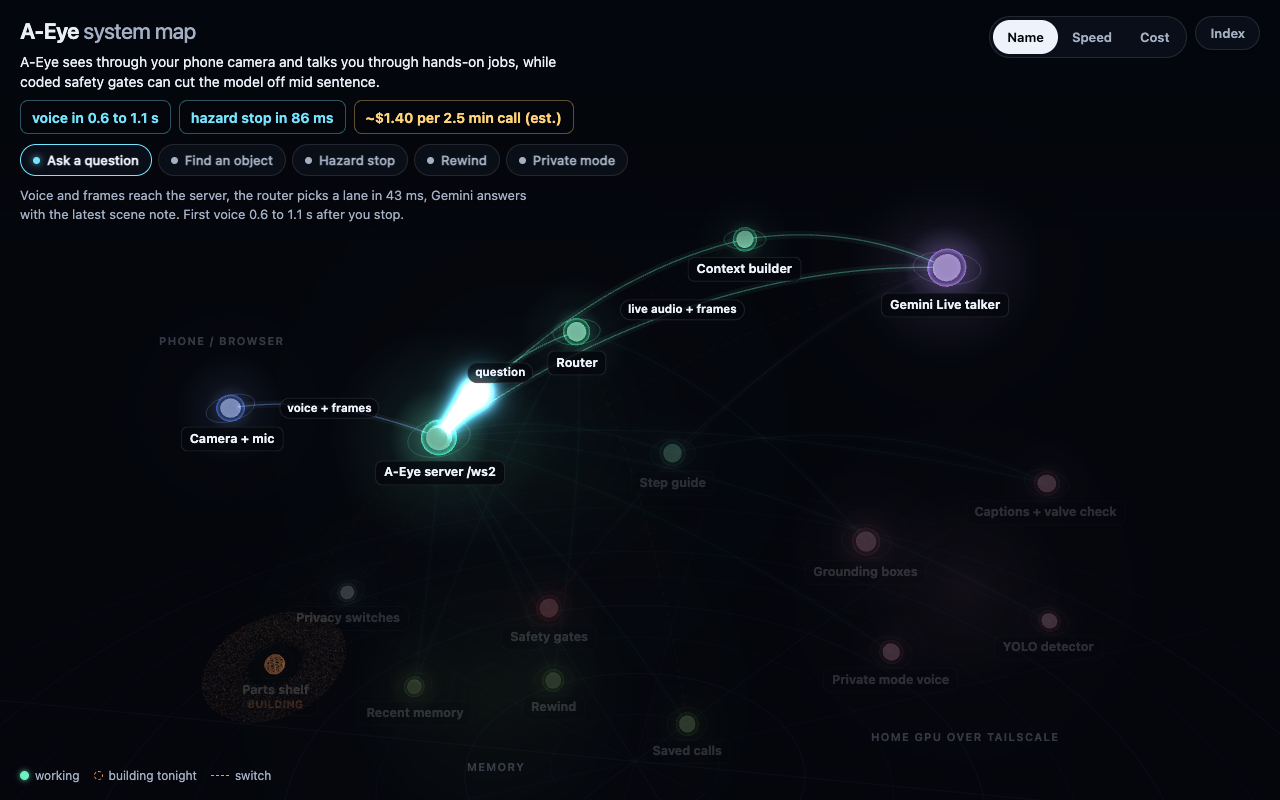
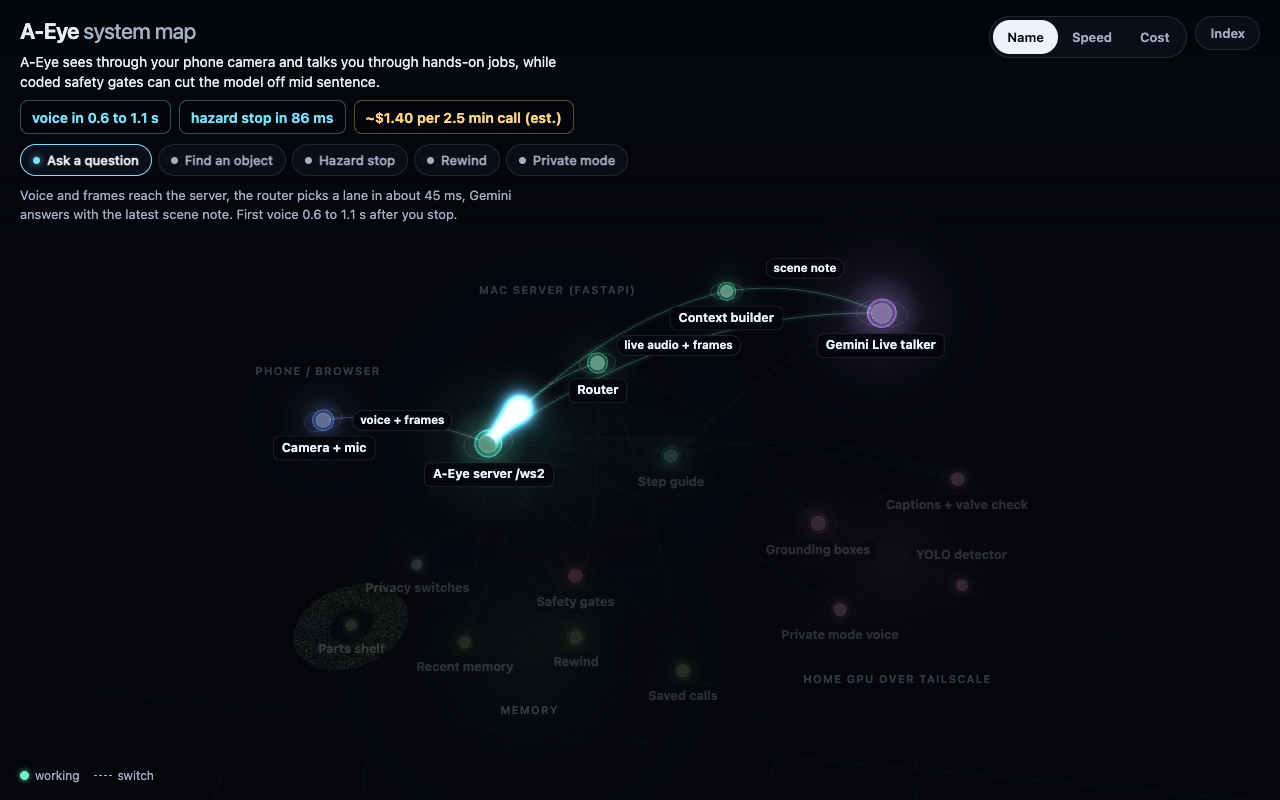
System map polish: lighter ambient pulses, footnote band, quiet phone Cost mode; shelf, time scope and recall working
Ambient heads 1.6x the first build with thin tails that fade before each node; the flow
packet keeps full strength. Fit reserves the legend/footnote band and includes zone
captions. 390 Cost mode shows only non-zero values unless a part's zone is selected.
Parts shelf, router time scope (86% of 300 independent, 0 now held, ~45 ms CPU) and
saved-call recall marked working, as merged on main.

Verified: node --test client-web/map-data.test.mjs (5 pass); headless Chromium on Metal,
full recapture at 1536/1280/390, frame p95 <= 16.8 ms, worst label contrast 9.0:1.

diff --git a/client-web/map.js b/client-web/map.js
@@ -233,7 +233,10 @@ function renderLabels() {
     l.el.className = `lab ${l.kind} m-${mode}`;
     if (l.kind === 'node') {
       const b = item.status === 'building' ? '<span class="b">building</span>' : '';
-      l.el.innerHTML = mode === 'name' ? `<span class="v">${esc(item.name)}</span>${b}`
+      const selZone = selected && selected.kind === 'node' ? nodes[selected.id].zone : selected ? nodes[edges[selected.id].from].zone : null;
+      const quiet = mode === 'cost' && innerWidth <= 760 && /^\$0/.test(value || '') && item.zone !== selZone;
+      if (quiet) l.el.className = `lab ${l.kind} m-name`;
+      l.el.innerHTML = mode === 'name' || quiet ? `<span class="v">${esc(item.name)}</span>${b}`
         : `<span class="v">${esc(value || 'not measured')}</span><span class="n">${esc(item.name)}</span>${b}`;
       l.show = true;
     } else {
@@ -246,7 +249,7 @@ function renderLabels() {
     l.dirty = true;
   }
   const note = document.getElementById('modeNote');
-  note.textContent = mode === 'speed' ? data.measured_note : mode === 'cost' ? 'Costs are meter estimates; local models cost $0. Open a node for the source.' : '';
+  note.textContent = mode === 'speed' ? data.measured_note : mode === 'cost' ? (innerWidth <= 760 ? 'Name only = $0 (local). Tap a part to see its zone.' : 'Costs are meter estimates; local models cost $0. Open a node for the source.') : '';
 }
 
 // ---------- focus: selection and flows dim everything unrelated ----------
@@ -392,12 +395,12 @@ function frame() {
   const narrow = camera.aspect < 0.8;
   root.rotation.z = narrow ? -Math.PI / 2 : 0;
   root.updateMatrixWorld(true);
-  const pts = data.nodes.map((n) => world(n.pos));
+  const pts = data.nodes.map((n) => world(n.pos)).concat(data.zones.filter((z) => z.label_at).map((z) => world(z.label_at)));
   const box = new THREE.Box3().setFromPoints(pts);
   const W = innerWidth, H = innerHeight;
   const barBottom = document.querySelector('.bar').getBoundingClientRect().bottom;
   const side = Math.min(95, W * 0.19);
-  const safe = { l: side, r: W - side, t: barBottom + 12, b: H - (narrow ? 70 : 76) };
+  const safe = { l: side, r: W - side, t: barBottom + 12, b: H - (narrow ? 96 : 104) }; // keeps the legend and its footnote line clear
   const dir = narrow ? new THREE.Vector3(0.1, 0.22, 1).normalize() : new THREE.Vector3(0.16, 0.3, 1).normalize();
   const target = box.getCenter(new THREE.Vector3());
   let dist = 32;
@@ -485,6 +488,7 @@ function setFlow(f, once = false) {
 const seg = document.querySelectorAll('.seg button');
 function setMode(m) {
   mode = m;
+  document.body.classList.toggle('cost-mode', m === 'cost');
   seg.forEach((b) => b.setAttribute('aria-checked', String(b.dataset.mode === m)));
   renderLabels();
   if (!panel.hidden && !selected) openPanel(indexPanel());
@@ -547,6 +551,7 @@ function resize() {
   frame();
 }
 addEventListener('resize', resize);
+addEventListener('resize', () => renderLabels());
 resize();
 let wasNarrow = camera.aspect < 0.8;
 addEventListener('resize', () => { const n = camera.aspect < 0.8; if (n !== wasNarrow) { wasNarrow = n; camera.position.copy(home.pos); controls.target.copy(home.target); } });
@@ -562,7 +567,7 @@ let last = performance.now();
 const frameTimes = [];
 window.__map = { frameTimes, ready: false, reduced: REDUCED };
 
-function writePulse(i, edgeId, t, reverse, color, scale, alpha) {
+function writePulse(i, edgeId, t, reverse, color, scale, alpha, packet = false) {
   const o = edgeObj[edgeId];
   let n = i;
   for (let k = 0; k < TRAIL; k++) {
@@ -572,8 +577,10 @@ function writePulse(i, edgeId, t, reverse, color, scale, alpha) {
     o.curve.getPoint(u, tmpA);
     pPos[n * 3] = tmpA.x; pPos[n * 3 + 1] = tmpA.y; pPos[n * 3 + 2] = tmpA.z;
     const fall = 1 - k / TRAIL;
-    pSize[n] = (k === 0 ? 2.8 : 1.7 * fall + 0.2) * scale;
-    pAlpha[n] = alpha * (k === 0 ? 1 : 0.85 * Math.pow(fall, 1.6)) * o.dim;
+    // ambient: heads 1.6x the first build, thin tails that fade out before the node; the flow packet stays full strength
+    pSize[n] = packet ? (k === 0 ? 2.8 : 1.7 * fall + 0.2) * scale : (k === 0 ? 2.4 : 0.8 * fall + 0.08) * scale;
+    const ends = packet ? 1 : Math.min(1, tt / 0.1, (1 - tt) / 0.1);
+    pAlpha[n] = alpha * ends * (k === 0 ? 1 : (packet ? 0.85 : 0.6) * Math.pow(fall, packet ? 1.6 : 2.2)) * o.dim;
     pCol[n * 3] = color.r; pCol[n * 3 + 1] = color.g; pCol[n * 3 + 2] = color.b;
     n++;
   }
@@ -652,7 +659,7 @@ function tick(now) {
       continue;
     }
     cTmp.set(TONE.speed).lerp(white, 0.2);
-    n = writePulse(n, id, fp.wait > 0 ? -1 : fp.t, rev, cTmp, 1.05, 1);
+    n = writePulse(n, id, fp.wait > 0 ? -1 : fp.t, rev, cTmp, 1.05, 1, true);
   }
   if (pendingClear) { pendingClear = false; setFlow(null); }
   for (let i = n; i < MAXP; i++) pAlpha[i] = 0;

diff --git a/client-web/map.css b/client-web/map.css
@@ -154,6 +154,7 @@ button:focus-visible { outline: 2px solid var(--label-speed); outline-offset: 2p
   body.sheet .tagline, body.sheet .chips, body.sheet .flows, body.sheet .say { display: none; }
   .legend { left: 14px; bottom: 12px; max-width: calc(100vw - 28px); gap: 10px; font-size: 11.5px; }
   #modeNote { display: none; }
+  body.cost-mode #modeNote { display: inline; color: var(--label-cost); }
   .panel { top: auto; left: 0; right: 0; bottom: 0; width: auto; max-height: 58vh; border-radius: 16px 16px 0 0; padding: 18px 16px 28px; animation-name: rise; }
   @keyframes rise { from { opacity: 0; transform: translateY(24px); } }
   .lab { font-size: 11.5px; padding: 2px 6px 3px; }

diff --git a/client-web/map.html b/client-web/map.html
@@ -32,7 +32,6 @@
 
 <footer class="legend" id="legend">
   <span><i class="dot ok"></i>working</span>
-  <span><i class="dot build"></i>building tonight</span>
   <span><i class="dash"></i>switch</span>
   <span id="modeNote"></span>
 </footer>

diff --git a/docs/results/system-map/contrast.py b/docs/results/system-map/contrast.py
@@ -7,7 +7,7 @@ def lum(c):
     c = np.where(c <= 0.04045, c / 12.92, ((c + 0.055) / 1.055) ** 2.4)
     return 0.2126 * c[..., 0] + 0.7152 * c[..., 1] + 0.0722 * c[..., 2]
 out = {}
-for name in ['1536-name', '1280-name', '1280-speed', '1280-cost', '390-name', '390-speed', '390-cost']:
+for name in ['1536-name', '1280-name', '1280-speed', '1280-cost', '390-name', '390-speed', '390-cost', '390-cost-selected']:
     img = np.asarray(Image.open(D / f'{name}.png').convert('RGB')).astype(float)
     scale = img.shape[1] / (1536 if name.startswith('1536') else 1280 if name.startswith('1280') else 390)
     ratios = []

diff --git a/docs/results/system-map/shoot.py b/docs/results/system-map/shoot.py
@@ -13,6 +13,7 @@ SHOTS = [
     ('390-autoplay', 390, 844, ''),
     ('390-cost', 390, 844, '?mode=cost'),
     ('390-index', 390, 844, '?panel=index'),
+    ('390-cost-selected', 390, 844, '?mode=cost&select=gemini'),
     ('1280-speed', 1280, 800, '?mode=speed'),
     ('1280-cost', 1280, 800, '?mode=cost'),
     ('1280-router-panel', 1280, 800, '?mode=speed&select=router'),

diff --git a/docs/results/system-map.md b/docs/results/system-map.md
@@ -4,6 +4,21 @@ Interactive 3D map of the A-Eye system for judges, served at `/map.html` next to
 per call, all driven by one JSON file. Branch `pkg/system-map`; the commit sha is in the git log of that branch (this
 file is part of that commit).
 
+## Polish round (after SIGN-OFF WITH NOTES, 8 of 10, on b035759)
+
+1. Ambient pulse heads 1.6x the first build (2.4 vs 1.5), thin tails that fade out over the last 10% of each line, so
+   nothing smears into a node; the flow packet keeps the full fix-round strength.
+2. The fit keeps a band for the legend and its footnote, and includes the zone captions, so in Speed mode Saved
+   calls and MEMORY sit clear of the footnote (`1280-speed.png`).
+3. At 390 in Cost mode only non-zero values show; $0 local parts show their name, with the footnote "Name only = $0
+   (local). Tap a part to see its zone." Selecting a part shows its zone's values (`390-cost.png`,
+   `390-cost-selected.png`).
+4. Now merged on main and shown as working: parts shelf (39 guide cards linked to scraped product rows, parts note in
+   Live context), the router time-scope head and saved-call recall. Time scope: 86% on an independent 300-question set
+   with 0 "now" questions held by mistake (coordinator's figure; not in a tracked file), and 96 of 100 with 0 of 20
+   "now" held in `router/results/scope_heldout_eval.json`; about 45 ms on CPU (route() median 45.7 ms, commit 7d3ee3f).
+   The "building" legend entry is gone because nothing is building now.
+
 ## Fix round 1 (after the Media lead FIX on 00c2283)
 
 1. Headline strip under the title: one sentence on what A-Eye does and three chips, voice in 0.6 to 1.1 s, hazard
@@ -37,8 +52,7 @@ file is part of that commit).
   from, knowledge cards (Saved calls, Step guide), privacy switches with jump links, and the parts shelf as a
   10,001-point cloud (one point per listing; positions decorative).
 - Index button: list twin of the map with shared selection, works with motion off.
-- Building tonight, drawn dashed/wireframe and labelled "building": parts shelf, router time scope, saved-call recall.
-  No flow plays a building line.
+- A building item would be drawn dashed/wireframe and labelled "building"; none is building after the polish round.
 - URL state for demos and captures: `?mode=speed|cost`, `?select=<node or edge id>`, `?flow=<id>`, `?panel=index`.
 - To add a branch later: add a node, edge or flow in `map-data.json`; `client-web/map-data.test.mjs` checks that
   every reference resolves.
@@ -50,7 +64,8 @@ file is part of that commit).
 | End of speech to first voice | 0.6 to 1.1 s | real Live calls tonight, synthetic speech (brief) |
 | Box after object named | 1.8 to 2.3 s | same |
 | Hazard stop line | 86 ms after speech, Gemini muted | same |
-| Router | p50 43 ms, p90 49.5 ms, 96 of 100 held-out | `router/results/heldout_eval.json` |
+| Router lanes | p50 43 ms, p90 49.5 ms, 96 of 100 held-out | `router/results/heldout_eval.json` |
+| Router time scope | 86% of 300 independent, 0 "now" held; 96 of 100 held-out; about 45 ms on CPU | coordinator; `router/results/scope_heldout_eval.json`; commit 7d3ee3f |
 | Haiku as router (comparison only) | 97 of 100, p50 803 ms | same file |
 | Rewind searchable | about 35 to 40 s; flush now 15 s, not re-measured | brief; code default `REWIND_FLUSH_S` 60 |
 | Context builder | every ~4 s; speed per note not measured | `server/context_agent.py` (`interval=4`) |
@@ -80,7 +95,7 @@ Recipe: `python -m http.server 8471 --bind 127.0.0.1` inside `client-web`, then 
 
 | Metric | Result |
 |---|---|
-| Frame time | p95 16.7 to 16.8 ms, p50 16.7 ms in all 19 captures (about 127 frames each, after 30 warm-up frames; vsync bound at 60 Hz). `frames.json` |
+| Frame time | p95 16.7 to 16.8 ms, p50 16.7 ms in all captures (about 127 frames each, after 30 warm-up frames; vsync bound at 60 Hz). `frames.json` |
 | Label contrast, from pixels | brightest text vs chip median per visible label (chips now 0.9 opaque): worst 9.0:1 (1280 cost), 11.9:1 (1280 speed), 15.0:1 (1536 name), 11.8:1 (390 cost); zone captions worst 6.6:1. `contrast.json` |
 | Token contrast, computed | muted #a3afc2 9.1:1 on canvas, 7.2:1 on a bright chip (#1a2232); danger #ff6b78 7.4:1 / 5.8:1; speed 13.8:1; cost 14.4:1 |
 | Assets | page code 79.7 KB raw (html 1.8, js 37.9, css 12.4, json 27.6); three.js 829.8 KB raw (core 415.8, module 392.8, OrbitControls 21.1), 199.7 KB gzip |
